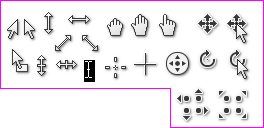
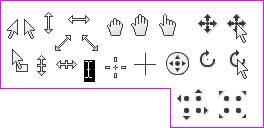
cursor shadow setting

diff --git a/kernel/graphics.cpp b/kernel/graphics.cpp
@@ -1,5 +1,7 @@
 #ifndef IMPLEMENTATION
 
+#define CURSOR_SHADOW_OFFSET (1)
+
 struct Surface : EsPaintTarget {
 	bool Resize(size_t newResX, size_t newResY, uint32_t clearColor = 0, bool copyOldBits = false);
 	void Copy(Surface *source, EsPoint destinationPoint, EsRectangle sourceRegion, bool addToModifiedRegion); 
@@ -8,6 +10,7 @@ struct Surface : EsPaintTarget {
 	void Blur(EsRectangle region, EsRectangle clip);
 	void SetBits(K_USER_BUFFER const void *bits, uintptr_t stride, EsRectangle region);
 	void Scroll(EsRectangle region, ptrdiff_t delta, bool vertical);
+	void CreateCursorShadow(Surface *source);
 
 	EsRectangle modifiedRegion;
 };
@@ -230,7 +233,7 @@ void Surface::Scroll(EsRectangle region, ptrdiff_t delta, bool vertical) {
 #define C3(p) ((p & 0xFF000000) >> 0x18)
 
 __attribute__((optimize("-O2"))) 
-void BlurRegionOfImage(uint32_t *image, int width, int height, int stride, uint16_t *kernel, uintptr_t repeat) {
+void BlurRegionOfImage(uint32_t *image, int width, int height, int stride, uint16_t *k, uintptr_t repeat) {
 	if (width <= 3 || height <= 3) {
 		return;
 	}
@@ -243,12 +246,9 @@ void BlurRegionOfImage(uint32_t *image, int width, int height, int stride, uint1
 
 			for (int i = 0; i < width; i++, u++, v++) {
 				if (i + 3 < width) g = *v;
-				*u = 	  (((C0(a) * kernel[0] + C0(b) * kernel[1] + C0(c) * kernel[2] + C0(d) * kernel[3] + C0(e) 
-								* kernel[4] + C0(f) * kernel[5] + C0(g) * kernel[6]) >> 8) << 0x00)
-					+ (((C1(a) * kernel[0] + C1(b) * kernel[1] + C1(c) * kernel[2] + C1(d) * kernel[3] + C1(e) 
-									* kernel[4] + C1(f) * kernel[5] + C1(g) * kernel[6]) >> 8) << 0x08)
-					+ (((C2(a) * kernel[0] + C2(b) * kernel[1] + C2(c) * kernel[2] + C2(d) * kernel[3] + C2(e) 
-									* kernel[4] + C2(f) * kernel[5] + C2(g) * kernel[6]) >> 8) << 0x10)
+				*u =      (((C0(a) * k[0] + C0(b) * k[1] + C0(c) * k[2] + C0(d) * k[3] + C0(e) * k[4] + C0(f) * k[5] + C0(g) * k[6]) >> 8) << 0x00)
+					+ (((C1(a) * k[0] + C1(b) * k[1] + C1(c) * k[2] + C1(d) * k[3] + C1(e) * k[4] + C1(f) * k[5] + C1(g) * k[6]) >> 8) << 0x08)
+					+ (((C2(a) * k[0] + C2(b) * k[1] + C2(c) * k[2] + C2(d) * k[3] + C2(e) * k[4] + C2(f) * k[5] + C2(g) * k[6]) >> 8) << 0x10)
 					+ (C3(d) << 0x18);
 				a = b, b = c, c = d, d = e, e = f, f = g;
 			}
@@ -263,12 +263,9 @@ void BlurRegionOfImage(uint32_t *image, int width, int height, int stride, uint1
 
 			for (int i = 0; i < height; i++, u += stride, v += stride) {
 				if (i + 3 < height) g = *v;
-				*u = 	  (((C0(a) * kernel[0] + C0(b) * kernel[1] + C0(c) * kernel[2] + C0(d) * kernel[3] + C0(e) 
-								* kernel[4] + C0(f) * kernel[5] + C0(g) * kernel[6]) >> 8) << 0x00)
-					+ (((C1(a) * kernel[0] + C1(b) * kernel[1] + C1(c) * kernel[2] + C1(d) * kernel[3] + C1(e) 
-								* kernel[4] + C1(f) * kernel[5] + C1(g) * kernel[6]) >> 8) << 0x08)
-					+ (((C2(a) * kernel[0] + C2(b) * kernel[1] + C2(c) * kernel[2] + C2(d) * kernel[3] + C2(e) 
-								* kernel[4] + C2(f) * kernel[5] + C2(g) * kernel[6]) >> 8) << 0x10)
+				*u =      (((C0(a) * k[0] + C0(b) * k[1] + C0(c) * k[2] + C0(d) * k[3] + C0(e) * k[4] + C0(f) * k[5] + C0(g) * k[6]) >> 8) << 0x00)
+					+ (((C1(a) * k[0] + C1(b) * k[1] + C1(c) * k[2] + C1(d) * k[3] + C1(e) * k[4] + C1(f) * k[5] + C1(g) * k[6]) >> 8) << 0x08)
+					+ (((C2(a) * k[0] + C2(b) * k[1] + C2(c) * k[2] + C2(d) * k[3] + C2(e) * k[4] + C2(f) * k[5] + C2(g) * k[6]) >> 8) << 0x10)
 					+ (C3(d) << 0x18);
 				a = b, b = c, c = d, d = e, e = f, f = g;
 			}
@@ -470,6 +467,45 @@ void Surface::Draw(Surface *source, EsRectangle destinationRegion, int sourceX, 
 	painter.target = this;
 	uint8_t *sourceBits = (uint8_t *) source->bits + source->stride * sourceY + 4 * sourceX;
 	EsDrawBitmap(&painter, destinationRegion, (uint32_t *) sourceBits, source->stride, alpha);
+}
+
+void Surface::CreateCursorShadow(Surface *temporary) {
+	const uint32_t kernel[] = { 14, 43, 82, 43, 14 };
+	uint32_t *bits1 = (uint32_t *) bits;
+	uint32_t *bits2 = (uint32_t *) temporary->bits;
+
+	for (int32_t i = 0; i < (int32_t) height; i++) {
+		for (int32_t j = 0; j < (int32_t) width; j++) {
+			uint32_t s = 0;
+
+			for (int32_t k = 0; k < 5; k++) {
+				int32_t l = j + k - 2;
+
+				if (l >= 0 && l < (int32_t) width) {
+					s += ((bits1[i * stride / 4 + l] & 0xFF000000) >> 24) * kernel[k];
+				}
+			}
+
+			bits2[i * temporary->stride / 4 + j] = s;
+		}
+	}
+
+	for (int32_t i = 0; i < (int32_t) height - CURSOR_SHADOW_OFFSET; i++) {
+		for (int32_t j = 0; j < (int32_t) width - CURSOR_SHADOW_OFFSET; j++) {
+			uint32_t s = 0;
+
+			for (int32_t k = 0; k < 5; k++) {
+				int32_t l = i + k - 2;
+
+				if (l >= 0 && l < (int32_t) height) {
+					s += bits2[l * temporary->stride / 4 + j] * kernel[k];
+				}
+			}
+
+			uint32_t *out = &bits1[(i + CURSOR_SHADOW_OFFSET) * stride / 4 + (j + CURSOR_SHADOW_OFFSET)];
+			*out = EsColorBlend((s >> 16) << 24, *out, true);
+		}
+	}
 }
 
 void GraphicsUpdateScreen32(K_USER_BUFFER const uint8_t *_source, uint32_t sourceWidth, uint32_t sourceHeight, uint32_t sourceStride, 

diff --git a/kernel/syscall.cpp b/kernel/syscall.cpp
@@ -1070,17 +1070,26 @@ SYSCALL_IMPLEMENT(ES_SYSCALL_WINDOW_SET_CURSOR) {
 	}
 
 	bool changedCursor = false;
+	bool different = argument1 != windowManager.cursorID || windowManager.cursorShadow != !!(argument3 & (1 << 30));
 
-	if (!window->closed && argument1 != windowManager.cursorID && !windowManager.eyedropping && (windowManager.hoverWindow == window || !windowManager.hoverWindow)) {
+	if (!window->closed && different && !windowManager.eyedropping && (windowManager.hoverWindow == window || !windowManager.hoverWindow)) {
 		windowManager.cursorID = argument1;
 		windowManager.cursorImageOffsetX = (int8_t) ((argument2 >> 0) & 0xFF);
 		windowManager.cursorImageOffsetY = (int8_t) ((argument2 >> 8) & 0xFF);
-		windowManager.cursorXOR = argument3 >> 31;
+		windowManager.cursorXOR = argument3 & (1 << 31);
+		windowManager.cursorShadow = argument3 & (1 << 30);
 
-		if (windowManager.cursorSurface.Resize(imageWidth, imageHeight)) {
-			windowManager.cursorSwap.Resize(imageWidth, imageHeight);
-			windowManager.cursorSurface.SetBits((K_USER_BUFFER const void *) argument1, argument3 & 0xFFFFFF, 
-					ES_RECT_4(0, windowManager.cursorSurface.width, 0, windowManager.cursorSurface.height));
+		int width = imageWidth + CURSOR_SHADOW_OFFSET;
+		int height = imageHeight + CURSOR_SHADOW_OFFSET;
+
+		if (windowManager.cursorSurface.Resize(width, height)
+				&& windowManager.cursorSwap.Resize(width, height)
+				&& windowManager.cursorTemporary.Resize(width, height)) {
+			windowManager.cursorSurface.SetBits((K_USER_BUFFER const void *) argument1, argument3 & 0xFFFFFF, ES_RECT_2S(imageWidth, imageHeight));
+
+			if (windowManager.cursorShadow) {
+				windowManager.cursorSurface.CreateCursorShadow(&windowManager.cursorTemporary);
+			}
 		}
 
 		windowManager.changedCursorImage = true;

diff --git a/desktop/api.cpp b/desktop/api.cpp
@@ -87,6 +87,7 @@ struct EsFileStore {
 struct GlobalData {
 	int32_t clickChainTimeoutMs;
 	bool swapLeftAndRightButtons;
+	bool showCursorShadow;
 };
 
 struct ThreadLocalStorage {
@@ -1131,6 +1132,7 @@ extern "C" void _start(EsProcessStartupInformation *_startupInformation) {
 
 		api.global->clickChainTimeoutMs = EsSystemConfigurationReadInteger(EsLiteral("general"), EsLiteral("click_chain_timeout_ms"));
 		api.global->swapLeftAndRightButtons = EsSystemConfigurationReadInteger(EsLiteral("general"), EsLiteral("swap_left_and_right_buttons"));
+		api.global->showCursorShadow = EsSystemConfigurationReadInteger(EsLiteral("general"), EsLiteral("show_cursor_shadow"));
 	} else {
 		EsHandle initialMountPointsBuffer = EsSyscall(ES_SYSCALL_PROCESS_GET_CREATION_ARGUMENT, ES_CURRENT_PROCESS, CREATION_ARGUMENT_INITIAL_MOUNT_POINTS, 0, 0);
 		size_t initialMountPointCount = EsConstantBufferGetSize(initialMountPointsBuffer) / sizeof(EsMountPoint);

diff --git a/desktop/settings.cpp b/desktop/settings.cpp
@@ -72,8 +72,8 @@ const EsStyle styleSettingsTable = {
 const EsStyle styleSettingsCheckboxGroup = {
 	.metrics = {
 		.mask = ES_THEME_METRICS_GAP_MAJOR | ES_THEME_METRICS_GAP_MINOR,
-		.gapMajor = 3,
-		.gapMinor = 3,
+		.gapMajor = 0,
+		.gapMinor = 0,
 	},
 };
 
@@ -328,7 +328,7 @@ void SettingsPageMouse(EsElement *element, SettingsPage *page) {
 	SettingsAddCheckbox(table, INTERFACE_STRING(DesktopSettingsMouseSwapLeftAndRightButtons), 'B', 
 			"general", "swap_left_and_right_buttons", &api.global->swapLeftAndRightButtons);
 	SettingsAddCheckbox(table, INTERFACE_STRING(DesktopSettingsMouseShowShadow), 'W', 
-			"general", "show_cursor_shadow", nullptr); // TODO.
+			"general", "show_cursor_shadow", &api.global->showCursorShadow);
 	SettingsAddCheckbox(table, INTERFACE_STRING(DesktopSettingsMouseLocateCursorOnCtrl), 'L', 
 			"general", "locate_cursor_on_ctrl", nullptr);
 

diff --git a/desktop/gui.cpp b/desktop/gui.cpp
@@ -6330,11 +6330,12 @@ bool UISetCursor(EsWindow *window) {
 	}
 
 	bool _xor = cursorStyle == ES_CURSOR_TEXT;
+	bool shadow = !_xor && api.global->showCursorShadow;
 
 	return EsSyscall(ES_SYSCALL_WINDOW_SET_CURSOR, window->handle, 
 			(uintptr_t) theming.cursors.bits + x * 4 + y * theming.cursors.stride, 
 			((0xFF & ox) << 0) | ((0xFF & oy) << 8) | ((0xFF & w) << 16) | ((0xFF & h) << 24), 
-			theming.cursors.stride | (cursorStyle << 24) | ((uint32_t) _xor << 31));
+			theming.cursors.stride | ((uint32_t) _xor << 31) | ((uint32_t) shadow << 30));
 }
 
 void UIProcessWindowManagerMessage(EsWindow *window, EsMessage *message, ProcessMessageTiming *timing) {

diff --git a/kernel/windows.cpp b/kernel/windows.cpp
@@ -99,10 +99,10 @@ struct WindowManager {
 	int cursorXPrecise, cursorYPrecise; // Scaled up by a factor of 10.
 	unsigned lastButtons;
 
-	Surface cursorSurface, cursorSwap;
+	Surface cursorSurface, cursorSwap, cursorTemporary;
 	int cursorImageOffsetX, cursorImageOffsetY;
 	uintptr_t cursorID;
-	bool cursorXOR;
+	bool cursorXOR, cursorShadow;
 	bool changedCursorImage;
 
 	// Keyboard:
